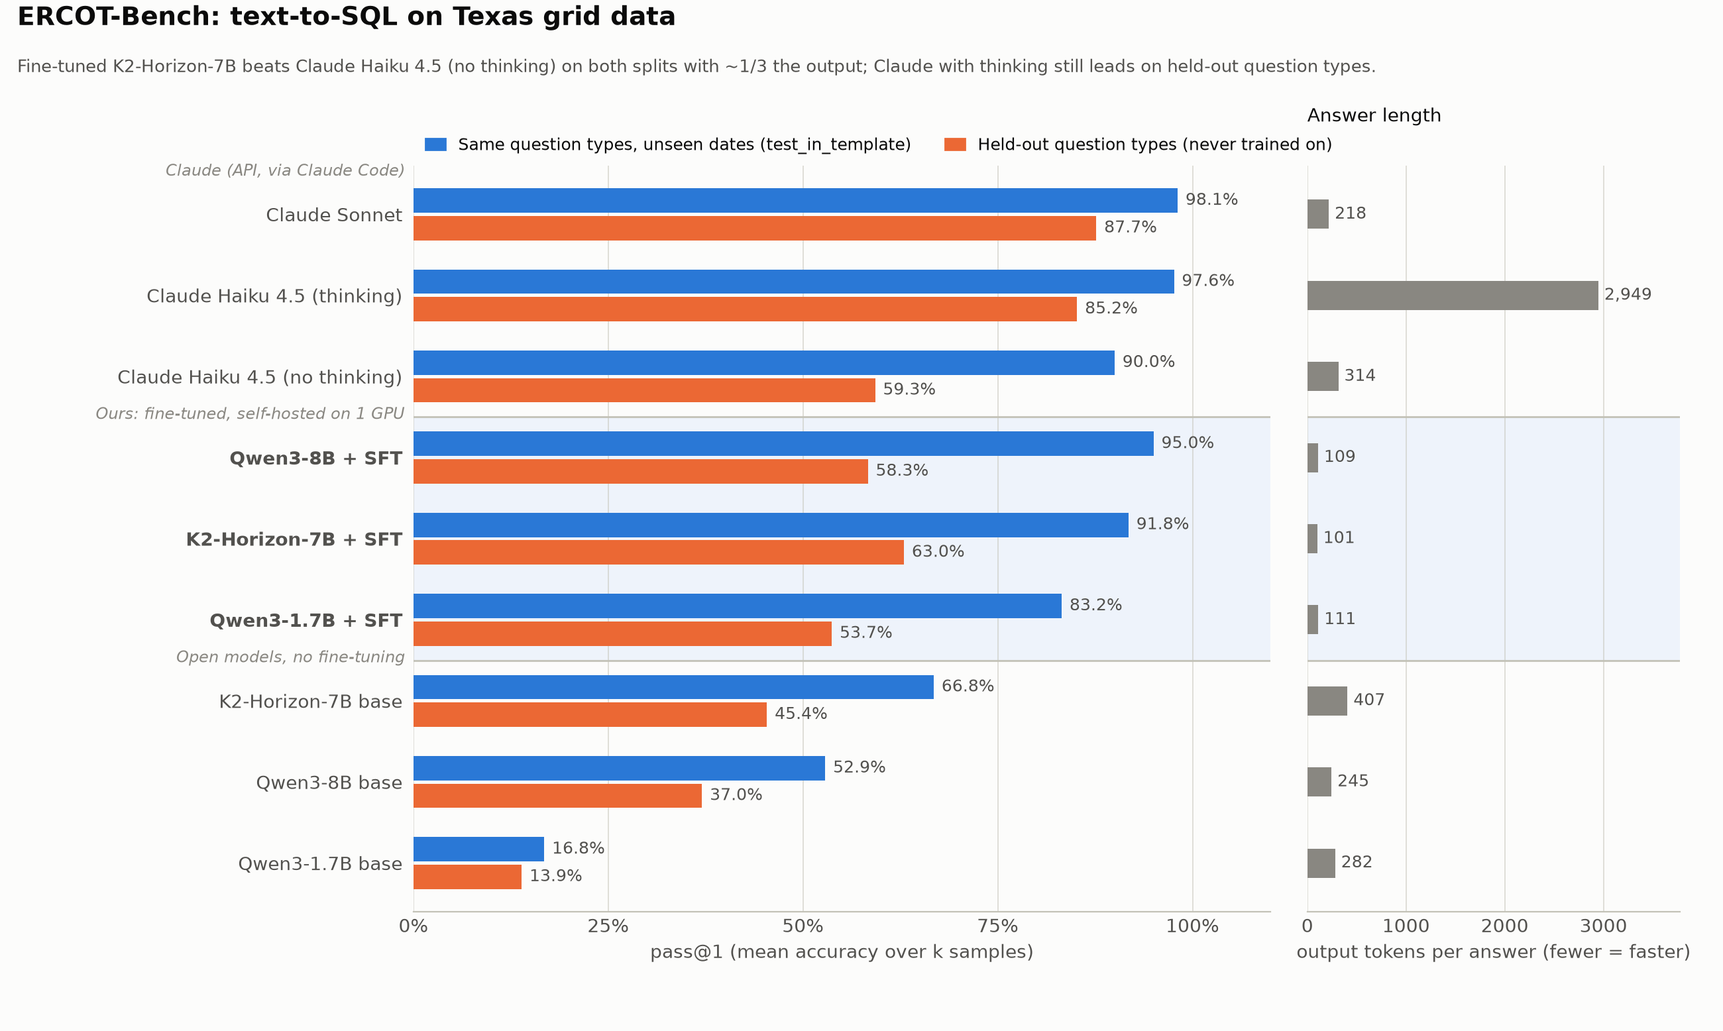
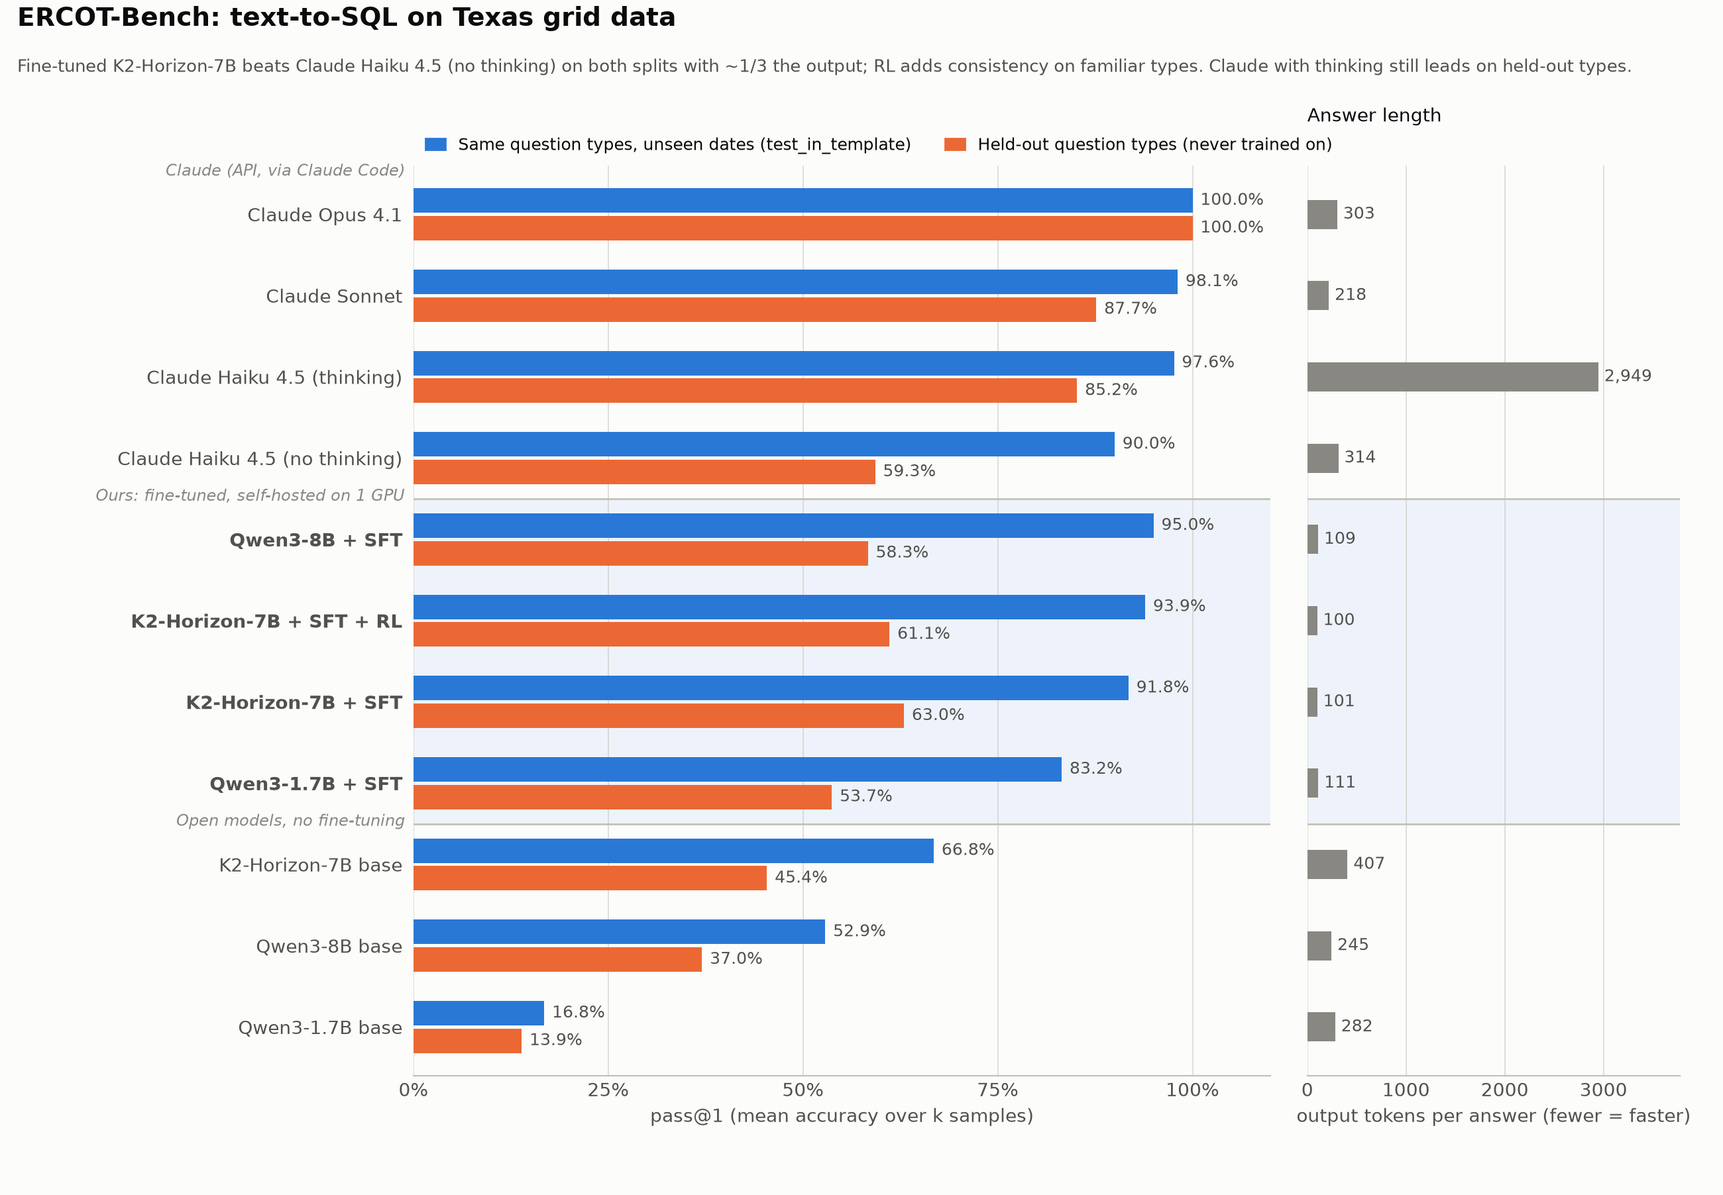
RL on K2-Horizon-7B (single-GPU GRPO), feasibility check, Opus 4.1 benchmark
Feasibility (prime-rl RL for K2): configs/prime-rl/rl_k2_lora.toml validates (default renderer,
trust_remote_code, HF impl + FA2, LoRA); vLLM Transformers backend serves K2 with hot-loaded LoRA adapters.
=> works with 2 GPUs; on one 32 GB GPU vLLM + trainer each need the 16.8 GB model (does not fit).

scripts/grpo_lora_hf.py: GRPO with ONE model copy (HF generate for rollouts, LoRA on; KL reference = LoRA off),
reward = ercot_bench.env.score.score. 30 steps x 8 prompts x 8 samples on rl_train_k2 (from K2-SFT train results):
58 min, peak 24.8 GB. Train reward 0.54 -> 0.68 (by thirds).

Results (same test subsets): K2 SFT -> SFT+RL: in-template 91.8% -> 93.9%, consistency 82.9% -> 87.1%
(8 tasks better, 2 worse); held-out 63.0% -> 61.1% (2 better, 4 worse; within noise at 27 tasks).
Claude Opus 4.1: 100% / 100%.

Also: k2rl demo lineup + ask target; demo_servers.sh retries once (first launch of a new model can fail
vLLM's KV-cache check while compiling); chart + README updated.

Claude-Session: https://claude.ai/code/session_01BXtCjpKzJp3HiPPy5uft9X

diff --git a/scripts/grpo_lora_hf.py b/scripts/grpo_lora_hf.py
@@ -1,0 +1,228 @@
+"""Single-GPU GRPO (LoRA) on the ercot-sql environment with ONE copy of the model.
+
+prime-rl's RL runs inference (vLLM) and training as separate processes, each holding the full model: for
+K2-Horizon-7B that is 2 x 16.8 GB of weights, which does not fit one 32 GB GPU. This script time-shares one model:
+it samples rollouts with HF `generate` (LoRA active), scores them with the SAME reward the eval harness and the
+verifiers taskset use (`ercot_bench.env.score.score`), and takes a GRPO step:
+
+  advantage_i = (r_i - mean(r_group)) / (std(r_group) + eps)      (groups with no reward variance are skipped)
+  loss = mean_i [ -A_i * mean_t logp_t  +  beta * mean_t KL_k3(pi || ref)_t ]
+
+The reference policy is the same weights with LoRA switched off (= the SFT model), so no second copy is needed.
+One gradient step per batch (fully on-policy, importance ratio = 1). Logits are computed only for completion tokens.
+
+    cd prime-rl && ../ercot-bench/scripts/guarded_run.sh grpo 30G uv run --no-sync python \
+        ../ercot-bench/scripts/grpo_lora_hf.py --model /hackathon/outputs/ercot-sft-k2-lora/merged \
+        --tasks ../ercot-bench/data/tasks/rl_train_k2.jsonl --out /hackathon/outputs/ercot-grpo-k2 \
+        --template-kwargs '{"reasoning_effort": "low"}'
+"""
+
+from __future__ import annotations
+
+import argparse
+import concurrent.futures as cf
+import json
+import math
+import random
+import shutil
+import sys
+import time
+from pathlib import Path
+
+HERE = Path(__file__).resolve().parent
+sys.path.insert(0, str(HERE))
+import sft_lora_hf as base  # noqa: E402  (sets PYTORCH_CUDA_ALLOC_CONF, provides LoRALinear/apply_lora)
+import torch  # noqa: E402
+import torch.nn as nn  # noqa: E402
+
+from ercot_bench.config import load_config  # noqa: E402
+from ercot_bench.env.prompt import build_prompt  # noqa: E402
+from ercot_bench.env.score import score  # noqa: E402
+from ercot_bench.tasks.generator import load_tasks  # noqa: E402
+
+
+def main() -> None:
+    ap = argparse.ArgumentParser()
+    ap.add_argument("--model", required=True)
+    ap.add_argument("--tasks", type=Path, required=True)
+    ap.add_argument("--out", type=Path, required=True)
+    ap.add_argument("--steps", type=int, default=40)
+    ap.add_argument("--prompts-per-step", type=int, default=8)
+    ap.add_argument("--group", type=int, default=8)
+    ap.add_argument("--gen-batch", type=int, default=16)
+    ap.add_argument("--max-new-tokens", type=int, default=384)
+    ap.add_argument("--temperature", type=float, default=1.0)
+    ap.add_argument("--lr", type=float, default=2e-5)
+    ap.add_argument("--rank", type=int, default=16)
+    ap.add_argument("--alpha", type=float, default=32.0)
+    ap.add_argument("--beta", type=float, default=0.02, help="KL penalty to the SFT (reference) policy")
+    ap.add_argument("--template-kwargs", default="{}")
+    ap.add_argument("--save-every", type=int, default=10)
+    ap.add_argument("--seed", type=int, default=0)
+    a = ap.parse_args()
+
+    from transformers import AutoModelForCausalLM, AutoTokenizer
+
+    random.seed(a.seed)
+    torch.manual_seed(a.seed)
+    cfg = load_config()
+    tasks = load_tasks(a.tasks)
+    tkw = json.loads(a.template_kwargs)
+    tok = AutoTokenizer.from_pretrained(a.model, trust_remote_code=True)
+    if tok.pad_token_id is None:
+        tok.pad_token = tok.eos_token
+    tok.padding_side = "left"
+    gen_cfg_eos = json.loads((Path(a.model) / "generation_config.json").read_text()).get("eos_token_id", tok.eos_token_id)
+    eos_ids = set(gen_cfg_eos if isinstance(gen_cfg_eos, list) else [gen_cfg_eos])
+
+    # prompts (identical to the eval harness), tokenized once
+    prompt_ids = {}
+    for t in tasks:
+        if t.task_id in prompt_ids:
+            continue
+        system, user = build_prompt(t.question, cfg.db_path)
+        text = tok.apply_chat_template([{"role": "system", "content": system}, {"role": "user", "content": user}],
+                                       tokenize=False, add_generation_prompt=True, **tkw)
+        prompt_ids[t.task_id] = tok(text, add_special_tokens=False, return_tensors="pt").input_ids[0]
+    print(f"tasks: {len(tasks)} rows, {len(prompt_ids)} unique; prompt tokens ~{sum(len(v) for v in prompt_ids.values()) // len(prompt_ids)}")
+
+    model = AutoModelForCausalLM.from_pretrained(a.model, trust_remote_code=True, dtype=torch.bfloat16,
+                                                 attn_implementation="sdpa").to("cuda")
+    for p in model.parameters():
+        p.requires_grad_(False)
+    wrapped = base.apply_lora(model, a.rank, a.alpha)
+    params = [p for _, m in wrapped for p in (m.lora_A, m.lora_B)]
+    model.gradient_checkpointing_enable(gradient_checkpointing_kwargs={"use_reentrant": False})
+    model.enable_input_require_grads()
+    decoder, lm_head = model.get_decoder(), model.get_output_embeddings()
+    opt = torch.optim.AdamW(params, lr=a.lr, weight_decay=0.0)
+    print(f"LoRA r{a.rank} on {len(wrapped)} modules ({sum(p.numel() for p in params) / 1e6:.1f}M params); "
+          f"GPU {torch.cuda.memory_allocated() / 2**30:.1f} GiB")
+
+    def completion_logps(full: torch.Tensor, n_prompt: int) -> torch.Tensor:
+        hidden = decoder(input_ids=full[None]).last_hidden_state[0, n_prompt - 1:-1]
+        logits = lm_head(hidden).float()
+        return torch.log_softmax(logits, -1).gather(-1, full[n_prompt:, None]).squeeze(-1)
+
+    a.out.mkdir(parents=True, exist_ok=True)
+    log_f = open(a.out / "train_log.jsonl", "w")
+    order = list(range(len(tasks)))
+    random.shuffle(order)
+    cursor = 0
+    pool = cf.ThreadPoolExecutor(8)
+    t_start = time.time()
+    for step in range(1, a.steps + 1):
+        # ---- sample prompts
+        batch = []
+        while len(batch) < a.prompts_per_step:
+            if cursor >= len(order):
+                random.shuffle(order)
+                cursor = 0
+            batch.append(tasks[order[cursor]])
+            cursor += 1
+        # ---- rollouts
+        t0 = time.time()
+        model.eval()
+        LoRALinear_active(True)
+        jobs = [(t, g) for t in batch for g in range(a.group)]
+        completions: list[torch.Tensor] = []
+        with torch.no_grad():
+            for i in range(0, len(jobs), a.gen_batch):
+                chunk = jobs[i:i + a.gen_batch]
+                enc = tok.pad({"input_ids": [prompt_ids[t.task_id] for t, _ in chunk]}, return_tensors="pt").to("cuda")
+                out = model.generate(**enc, do_sample=True, temperature=a.temperature, top_p=1.0,
+                                     max_new_tokens=a.max_new_tokens, eos_token_id=list(eos_ids),
+                                     pad_token_id=tok.pad_token_id, use_cache=True)
+                for row in out[:, enc.input_ids.shape[1]:]:
+                    ids = row.tolist()
+                    cut = next((k + 1 for k, x in enumerate(ids) if x in eos_ids), len(ids))
+                    completions.append(torch.tensor(ids[:cut], dtype=torch.long))
+        texts = [tok.decode(c, skip_special_tokens=True) for c in completions]
+        results = list(pool.map(lambda it: score(it[1], it[0][0], cfg.db_path), zip(jobs, texts)))
+        rewards = torch.tensor([r.reward for r in results])
+        t_gen = time.time() - t0
+
+        # ---- advantages (per group)
+        adv = torch.zeros_like(rewards)
+        active_groups = 0
+        for g0 in range(0, len(jobs), a.group):
+            r = rewards[g0:g0 + a.group]
+            if r.std() > 1e-6:
+                adv[g0:g0 + a.group] = (r - r.mean()) / (r.std() + 1e-4)
+                active_groups += 1
+
+        # ---- policy gradient step (skip zero-advantage rollouts)
+        t1 = time.time()
+        model.train()
+        idx = [i for i in range(len(jobs)) if adv[i] != 0 and len(completions[i]) > 0]
+        loss_sum = kl_sum = 0.0
+        if idx:
+            for i in idx:
+                t, _ = jobs[i]
+                p_ids = prompt_ids[t.task_id].cuda()
+                full = torch.cat([p_ids, completions[i].cuda()])
+                with torch.no_grad():
+                    LoRALinear_active(False)
+                    ref = completion_logps(full, len(p_ids))
+                    LoRALinear_active(True)
+                logp = completion_logps(full, len(p_ids))
+                delta = ref - logp
+                kl = (torch.exp(delta) - delta - 1).mean()
+                loss = (-(adv[i].item()) * logp.mean() + a.beta * kl) / len(idx)
+                loss.backward()
+                loss_sum += loss.item()
+                kl_sum += kl.item() / len(idx)
+            gn = torch.nn.utils.clip_grad_norm_(params, 1.0).item()
+            opt.step()
+            opt.zero_grad(set_to_none=True)
+        else:
+            gn = 0.0
+        t_train = time.time() - t1
+        outcomes = {k: sum(r.outcome == k for r in results) / len(results)
+                    for k in ("correct", "wrong_answer", "sql_error", "format_error")}
+        rec = {"step": step, "reward_mean": rewards.mean().item(), **outcomes, "active_groups": active_groups,
+               "groups": len(batch), "trained_rollouts": len(idx), "loss": loss_sum, "kl": kl_sum, "grad_norm": gn,
+               "mean_completion_tokens": sum(len(c) for c in completions) / len(completions),
+               "gen_s": round(t_gen, 1), "train_s": round(t_train, 1),
+               "peak_gib": round(torch.cuda.max_memory_allocated() / 2**30, 1),
+               "elapsed_min": round((time.time() - t_start) / 60, 1)}
+        log_f.write(json.dumps(rec) + "\n")
+        log_f.flush()
+        print(f"step {step}/{a.steps} reward {rec['reward_mean']:.3f} correct {outcomes['correct']:.2f} "
+              f"active {active_groups}/{len(batch)} kl {kl_sum:.4f} gn {gn:.3f} tok {rec['mean_completion_tokens']:.0f} "
+              f"gen {t_gen:.0f}s train {t_train:.0f}s peak {rec['peak_gib']} GiB elapsed {rec['elapsed_min']}m", flush=True)
+        if step % a.save_every == 0 or step == a.steps:
+            save_adapter(wrapped, a, a.out / f"adapter_step{step}")
+
+    # ---- merge the RL adapter into the SFT weights and save a servable model
+    model.gradient_checkpointing_disable()
+    for name, m in wrapped:
+        parent = model.get_submodule(name.rsplit(".", 1)[0])
+        setattr(parent, name.rsplit(".", 1)[1], m.merged())
+    model.config.use_cache = True
+    merged = a.out / "merged"
+    model.save_pretrained(merged, safe_serialization=True, max_shard_size="5GB")
+    tok.padding_side = "right"
+    tok.save_pretrained(merged)
+    for p in Path(a.model).iterdir():
+        if p.suffix in (".py", ".jinja") or p.name == "generation_config.json":
+            shutil.copyfile(p, merged / p.name)
+    print(f"done: merged RL model -> {merged}")
+
+
+def LoRALinear_active(flag: bool) -> None:
+    base.LoRALinear.active = flag
+
+
+def save_adapter(wrapped, a, path: Path) -> None:
+    from safetensors.torch import save_file
+    path.mkdir(parents=True, exist_ok=True)
+    save_file({f"base_model.model.{n}.lora_{w}.weight": getattr(m, f"lora_{w}").detach().to(torch.bfloat16).cpu().contiguous()
+               for n, m in wrapped for w in ("A", "B")}, str(path / "adapter_model.safetensors"))
+    (path / "adapter_config.json").write_text(json.dumps(
+        {"peft_type": "LORA", "task_type": "CAUSAL_LM", "base_model_name_or_path": a.model, "r": a.rank,
+         "lora_alpha": a.alpha, "lora_dropout": 0.0, "bias": "none", "target_modules": list(base.TARGETS)}, indent=2))
+
+
+if __name__ == "__main__":
+    main()

diff --git a/scripts/plot_results.py b/scripts/plot_results.py
@@ -24,10 +24,12 @@ REPO = Path(__file__).resolve().parents[1]
 
 # (display name, report model id, group)
 MODELS = [
+    ("Claude Opus 4.1", "claude-opus-4-1", "claude"),
     ("Claude Sonnet", "sonnet", "claude"),
     ("Claude Haiku 4.5 (thinking)", "haiku", "claude"),
     ("Claude Haiku 4.5 (no thinking)", "haiku (no thinking)", "claude"),
     ("Qwen3-8B + SFT", "/hackathon/outputs/ercot-sft-8b-lora/export/merged", "ours"),
+    ("K2-Horizon-7B + SFT + RL", "/hackathon/outputs/ercot-grpo-k2/merged", "ours"),
     ("K2-Horizon-7B + SFT", "/hackathon/outputs/ercot-sft-k2-lora/merged", "ours"),
     ("Qwen3-1.7B + SFT", "/hackathon/outputs/ercot-sft-1p7b/checkpoints/step_80/weights", "ours"),
     ("K2-Horizon-7B base", "IFM/K2-Horizon-7B", "base"),
@@ -120,8 +122,8 @@ def draw(data, theme: str, path: Path) -> None:
                     labelcolor=t["text"], handlelength=1.2, borderaxespad=0.3)
     fig.suptitle("ERCOT-Bench: text-to-SQL on Texas grid data", x=0.01, ha="left", y=0.995, fontsize=14,
                  fontweight="bold", color=t["text"])
-    fig.text(0.01, 0.955 - 0.004 * (12 - n), "Fine-tuned K2-Horizon-7B beats Claude Haiku 4.5 (no thinking) on both splits with ~1/3 the output; "
-             "Claude with thinking still leads on held-out question types.", fontsize=9.5, color=t["text2"],
+    fig.text(0.01, 0.955 - 0.004 * (12 - n), "Fine-tuned K2-Horizon-7B beats Claude Haiku 4.5 (no thinking) on both splits with ~1/3 the output; RL adds "
+             "consistency on familiar types. Claude with thinking still leads on held-out types.", fontsize=9.5, color=t["text2"],
              ha="left", va="top")
     ax2.set_title("Answer length", loc="left", fontsize=10, color=t["text"], pad=24)
     fig.subplots_adjust(left=0.24, right=0.975, top=1 - 1.25 / (0.62 * n + 2.2), bottom=0.9 / (0.62 * n + 2.2))

diff --git a/src/ercot_bench/demo.py b/src/ercot_bench/demo.py
@@ -32,6 +32,7 @@ from ercot_bench.tasks.schema import Task
 SFT_WEIGHTS = "/hackathon/outputs/ercot-sft-1p7b/checkpoints/step_80/weights"
 SFT8B_WEIGHTS = "/hackathon/outputs/ercot-sft-8b-lora/export/merged"
 K2SFT_WEIGHTS = "/hackathon/outputs/ercot-sft-k2-lora/merged"
+K2RL_WEIGHTS = "/hackathon/outputs/ercot-grpo-k2/merged"
 
 
 @dataclass
@@ -52,6 +53,9 @@ def default_targets(sft_url: str, base_url: str, sft_model: str, sft8b_url: str 
         "k2sft": Target("K2-Horizon-7B + SFT", "openai-compat", K2SFT_WEIGHTS,
                         {"base_url": "http://localhost:8003/v1", "temperature": 0.0, "max_tokens": 2048,
                          "extra_body": {"chat_template_kwargs": {"reasoning_effort": "low"}}}),
+        "k2rl": Target("K2-Horizon-7B + SFT + RL", "openai-compat", K2RL_WEIGHTS,
+                       {"base_url": "http://localhost:8003/v1", "temperature": 0.0, "max_tokens": 2048,
+                        "extra_body": {"chat_template_kwargs": {"reasoning_effort": "low"}}}),
         "haiku": Target("Claude Haiku 4.5", "claude-cli", "haiku", {}),
         "sonnet": Target("Claude Sonnet", "claude-cli", "sonnet", {}),
     }

diff --git a/src/ercot_bench/cli.py b/src/ercot_bench/cli.py
@@ -222,7 +222,7 @@ def sft_build(
 @app.command()
 def ask(
     question: Optional[str] = typer.Argument(None, help="Ask once and exit (otherwise interactive REPL)"),
-    targets: str = typer.Option("sft,base,haiku", help="Comma-separated: sft, sft8b, k2sft, base, haiku, sonnet"),
+    targets: str = typer.Option("sft,base,haiku", help="Comma-separated: sft, sft8b, k2sft, k2rl, base, haiku, sonnet"),
     example: Optional[int] = typer.Option(None, help="Run curated example N from configs/demo_examples.json and exit"),
     sft_url: str = typer.Option("http://localhost:8000/v1", help="vLLM URL serving the SFT model"),
     base_url: str = typer.Option("http://localhost:8001/v1", help="vLLM URL serving base Qwen3-1.7B"),

diff --git a/scripts/sft_lora_hf.py b/scripts/sft_lora_hf.py
@@ -31,6 +31,8 @@ TARGETS = ("q_proj", "k_proj", "v_proj", "o_proj", "gate_proj", "up_proj", "down
 
 
 class LoRALinear(nn.Module):
+    active = True  # class-wide switch: False -> behave as the frozen base (used as the RL reference policy)
+
     def __init__(self, base: nn.Linear, rank: int, alpha: float):
         super().__init__()
         self.base = base
@@ -40,6 +42,8 @@ class LoRALinear(nn.Module):
         nn.init.kaiming_uniform_(self.lora_A, a=math.sqrt(5))
 
     def forward(self, x):
+        if not LoRALinear.active:
+            return self.base(x)
         dt = x.dtype
         return self.base(x) + ((x @ self.lora_A.to(dt).T) @ self.lora_B.to(dt).T) * self.scale
 

diff --git a/README.md b/README.md
@@ -244,10 +244,12 @@ All fine-tunes use the same 802 correct Sonnet solutions (SFT only, no RL yet).
 
 | model | test_in_template | held-out templates | consistent (in-template) | mean output tokens |
 |---|---|---|---|---|
+| Claude Opus 4.1 (claude-cli) | 100.0% | 100.0% | 100.0% | 303 |
 | Claude Sonnet (claude-cli) | 98.1% | 87.7% | 97.1% | 218 |
 | Claude Haiku 4.5 (claude-cli) | 97.6% | 85.2% | 92.9% | 2,949 (reasoning) |
 | Claude Haiku 4.5, thinking off (claude-cli) | 90.0% | 59.3% | 81.4% | 314 |
 | **Qwen3-8B + SFT (LoRA)** | **95.0%** | 58.3% | 88.6% | 109 |
+| **K2-Horizon-7B + SFT + RL (GRPO, LoRA)** | 93.9% | 61.1% | 87.1% | 100 |
 | **K2-Horizon-7B + SFT (LoRA)** | 91.8% | **63.0%** | 82.9% | 101 |
 | Qwen3-1.7B + SFT (full FT) | 83.2% | 53.7% | 74.3% | 111 |
 | K2-Horizon-7B base | 66.8% | 45.4% | 31.4% | 407 (reasoning) |
@@ -262,6 +264,7 @@ Training on one RTX 5090 (all under the memory safeguards):
 | Qwen3-8B SFT | prime-rl, LoRA r32, bf16 params, 40 steps (~3.2 epochs) | 30 min | 20.0 GB |
 | K2-Horizon-7B SFT | `scripts/sft_lora_hf.py`, LoRA r32, 2 epochs | 14 min | 20.1 GB |
 | Qwen3-1.7B RL smoke | prime-rl GRPO, LoRA, 15 steps | 2.5 min | 21.8 GB (incl. vLLM) |
+| K2-Horizon-7B RL | `scripts/grpo_lora_hf.py`, GRPO LoRA r16, 30 steps x 8 prompts x 8 samples | 58 min | 24.8 GB |
 
 - Fine-tuned 7-8B models get within ~3-6 points of Claude on in-template questions while answering in ~100 tokens
   (single-request latency ~1-2 s on the 5090 vs ~7-25 s for Haiku, which reasons for ~3k tokens), self-hosted.
@@ -270,6 +273,12 @@ Training on one RTX 5090 (all under the memory safeguards):
 - **Fine-tuned K2-Horizon-7B beats Claude Haiku 4.5 (thinking off) on both splits (91.8% vs 90.0%, 63.0% vs 59.3%)**
   with a third of the output; Qwen3-8B + SFT beats it in-template (95.0%) and ties held-out (58.3% vs 59.3%).
 - The stronger base (K2) generalizes better after SFT (63.0% held-out) even though Qwen3-8B wins in-template.
+- **RL on K2 (GRPO from the SFT checkpoint)** improved familiar question types: 91.8% -> 93.9% pass@1 and
+  82.9% -> 87.1% consistency (8 test tasks more reliable, 2 less). Held-out types were flat (63.0% -> 61.1%: 2 tasks
+  better, 4 worse, mostly one template; 1 task = 3.7 pts on 27 tasks), consistent with RL only sharpening skills the
+  training tasks exercise. Train reward by thirds: 0.54 -> 0.57 -> 0.68; KL to SFT stayed <= 0.004.
+- Claude Opus 4.1 solves everything (100% / 100%), e.g. the SOC-constrained battery optimum as a recursive-CTE DP:
+  the benchmark ceiling. Haiku 4.5 is the smallest Claude still served (3 Haiku, 3.5 Haiku, Sonnet 3.7, Sonnet 4 retired).
 - RL smoke (LoRA GRPO from the 1.7B SFT checkpoint): per-step reward 0.38-0.88, non-constant, 0 errors.
 - verifiers `eval` on `ercot-sql` vs our harness: 64/64 rewards identical.
 - **Flag (per spec):** Claude is above the ~85% threshold on both splits; templates need to get harder to track
@@ -281,10 +290,30 @@ assistant tokens; LM head applied only to answer positions, which cut peak VRAM 
 250k vocab). Its chat template requires a thinking field, so `data/sft_k2` sets `think_faster=""` and the tuned
 model learns to answer immediately under `reasoning_effort=low`.
 
+## RL on K2-Horizon-7B (single GPU)
+
+Feasibility check (prime-rl): `configs/prime-rl/rl_k2_lora.toml` validates (default renderer, trust_remote_code,
+HF impl + FA2, LoRA), and vLLM's Transformers backend serves K2 with hot-loaded LoRA adapters, so **prime-rl RL on
+K2 works with 2 GPUs**. On one 32 GB GPU it does not fit: vLLM and the trainer each hold the 16.8 GB bf16 model.
+
+On the 5090 we instead use `scripts/grpo_lora_hf.py`: GRPO with **one** copy of the model that both samples (HF
+`generate`, LoRA on) and trains; the KL reference is the same weights with LoRA switched off (= the SFT model).
+Reward = `ercot_bench.env.score.score` (same function as eval and the verifiers taskset). Prompt set: K2-SFT's
+train-split results -> `rl-subset` (92 sometimes-right tasks x3, 8 never-solved, 67 always-solved).
+
+```bash
+uv run ercot-bench eval --backend openai-compat --model <k2 sft> --base-url http://localhost:8003/v1 --split train \
+  --k 4 --use-n --template-kwargs '{"reasoning_effort": "low"}' --out results/train__openai-compat__k2-horizon-7b-sft.jsonl
+uv run ercot-bench rl-subset results/train__openai-compat__k2-horizon-7b-sft.jsonl --out data/tasks/rl_train_k2.jsonl
+cd ../prime-rl && ../ercot-bench/scripts/guarded_run.sh grpo 30G uv run --no-sync python ../ercot-bench/scripts/grpo_lora_hf.py \
+  --model /hackathon/outputs/ercot-sft-k2-lora/merged --tasks ../ercot-bench/data/tasks/rl_train_k2.jsonl \
+  --out /hackathon/outputs/ercot-grpo-k2 --steps 30 --prompts-per-step 8 --group 8 --template-kwargs '{"reasoning_effort": "low"}'
+```
+
 ## Live demo (`ercot-bench ask`)
 
 ```bash
-scripts/demo_servers.sh k2       # K2-Horizon-7B+SFT (:8003) + Qwen3-1.7B base (:8001); or: qwen8b | small | stop
+scripts/demo_servers.sh k2rl     # K2-Horizon-7B+SFT+RL (:8003) + Qwen3-1.7B base (:8001); or: k2 | qwen8b | small | stop
 tmux attach -t ercot             # windows: compare (fine-tuned vs base vs Haiku), finetuned, base, haiku, status
 ```
 
